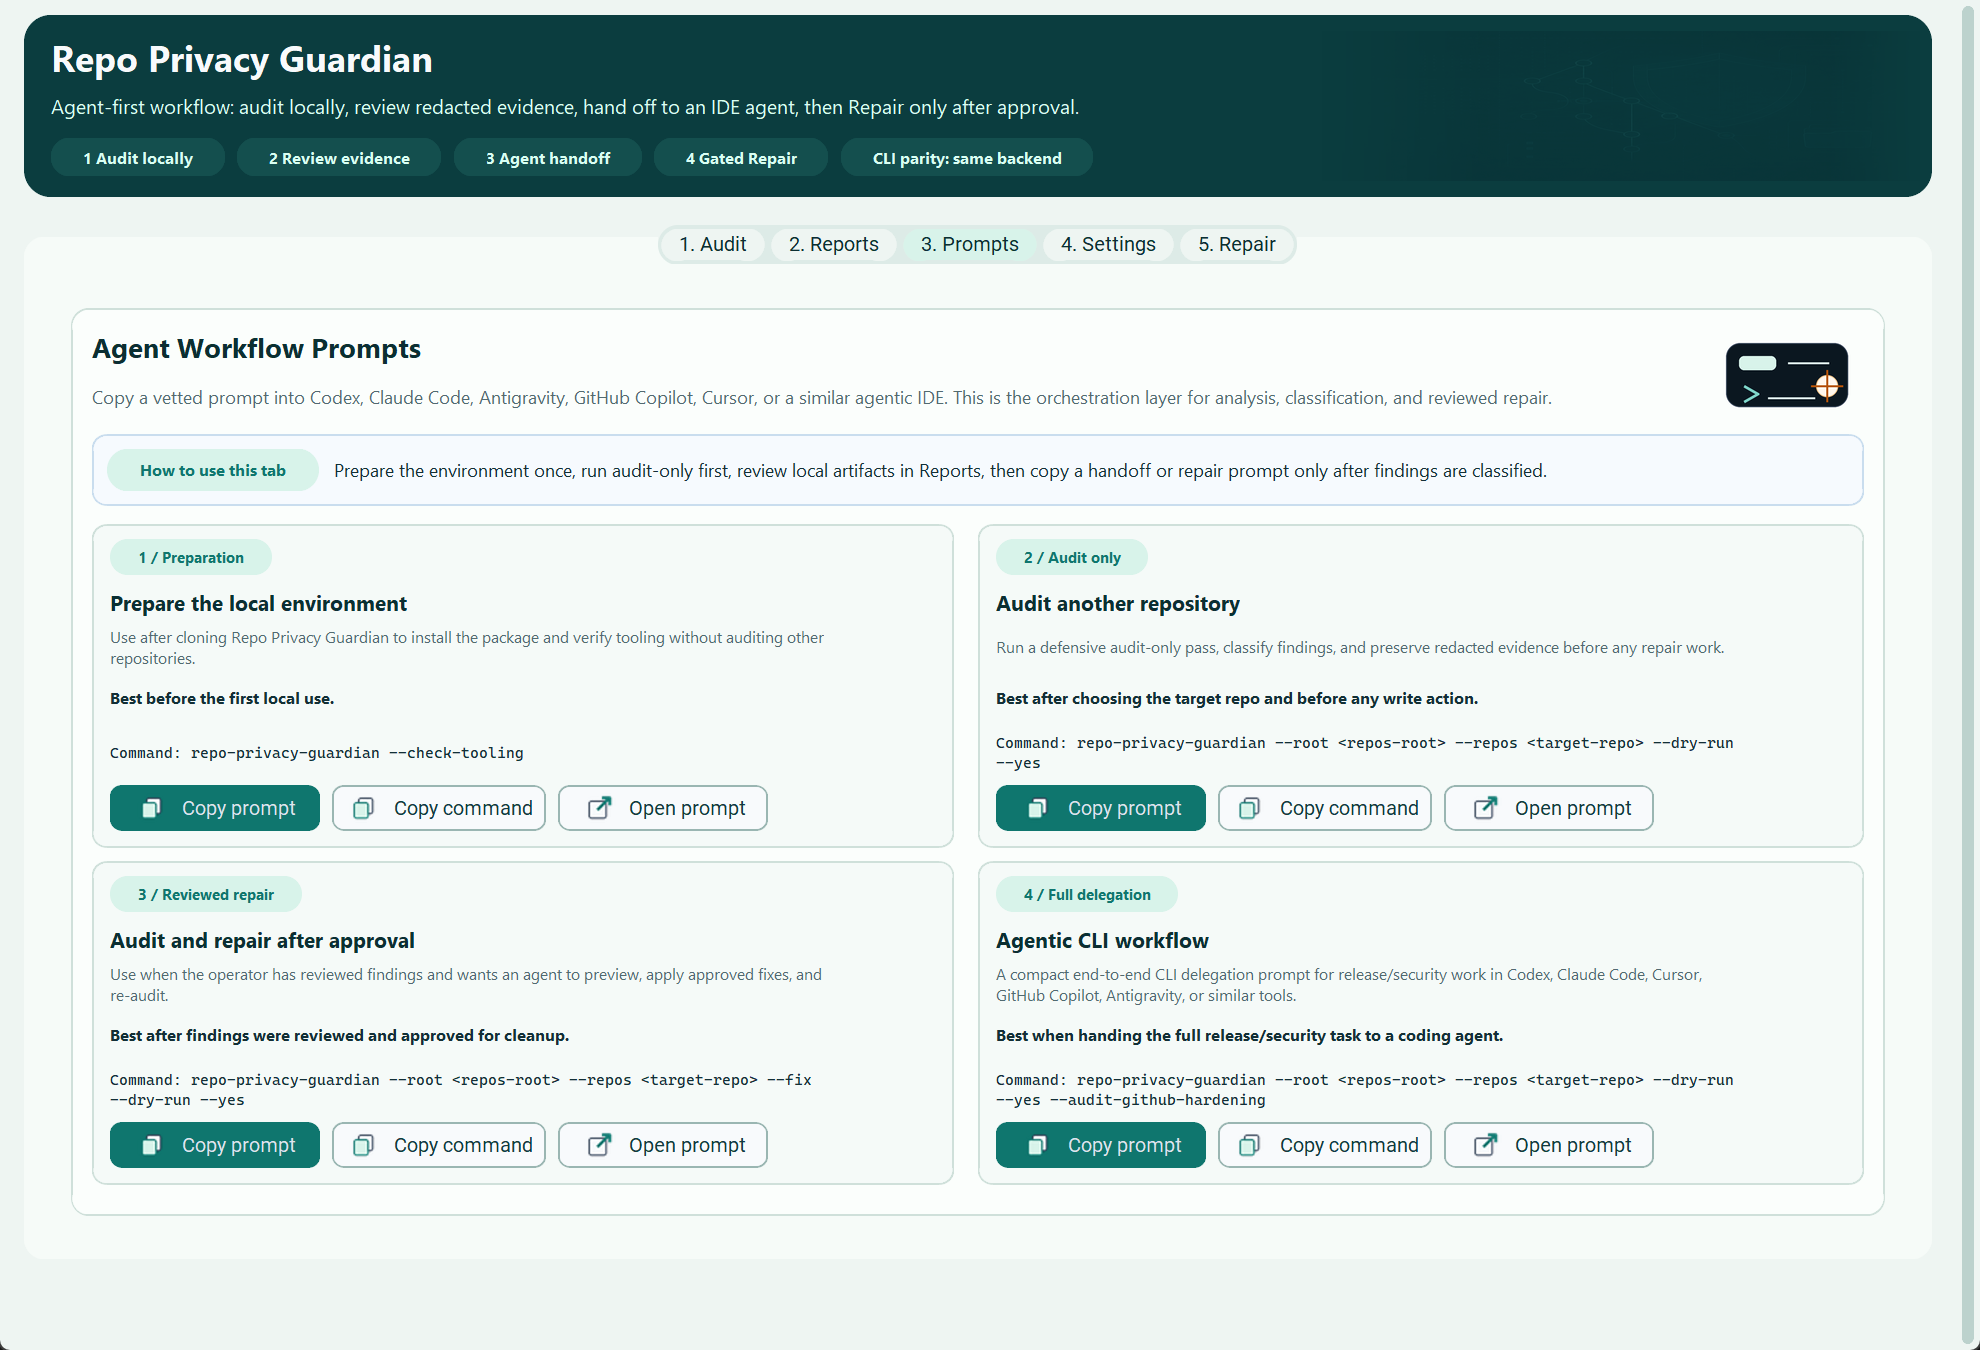
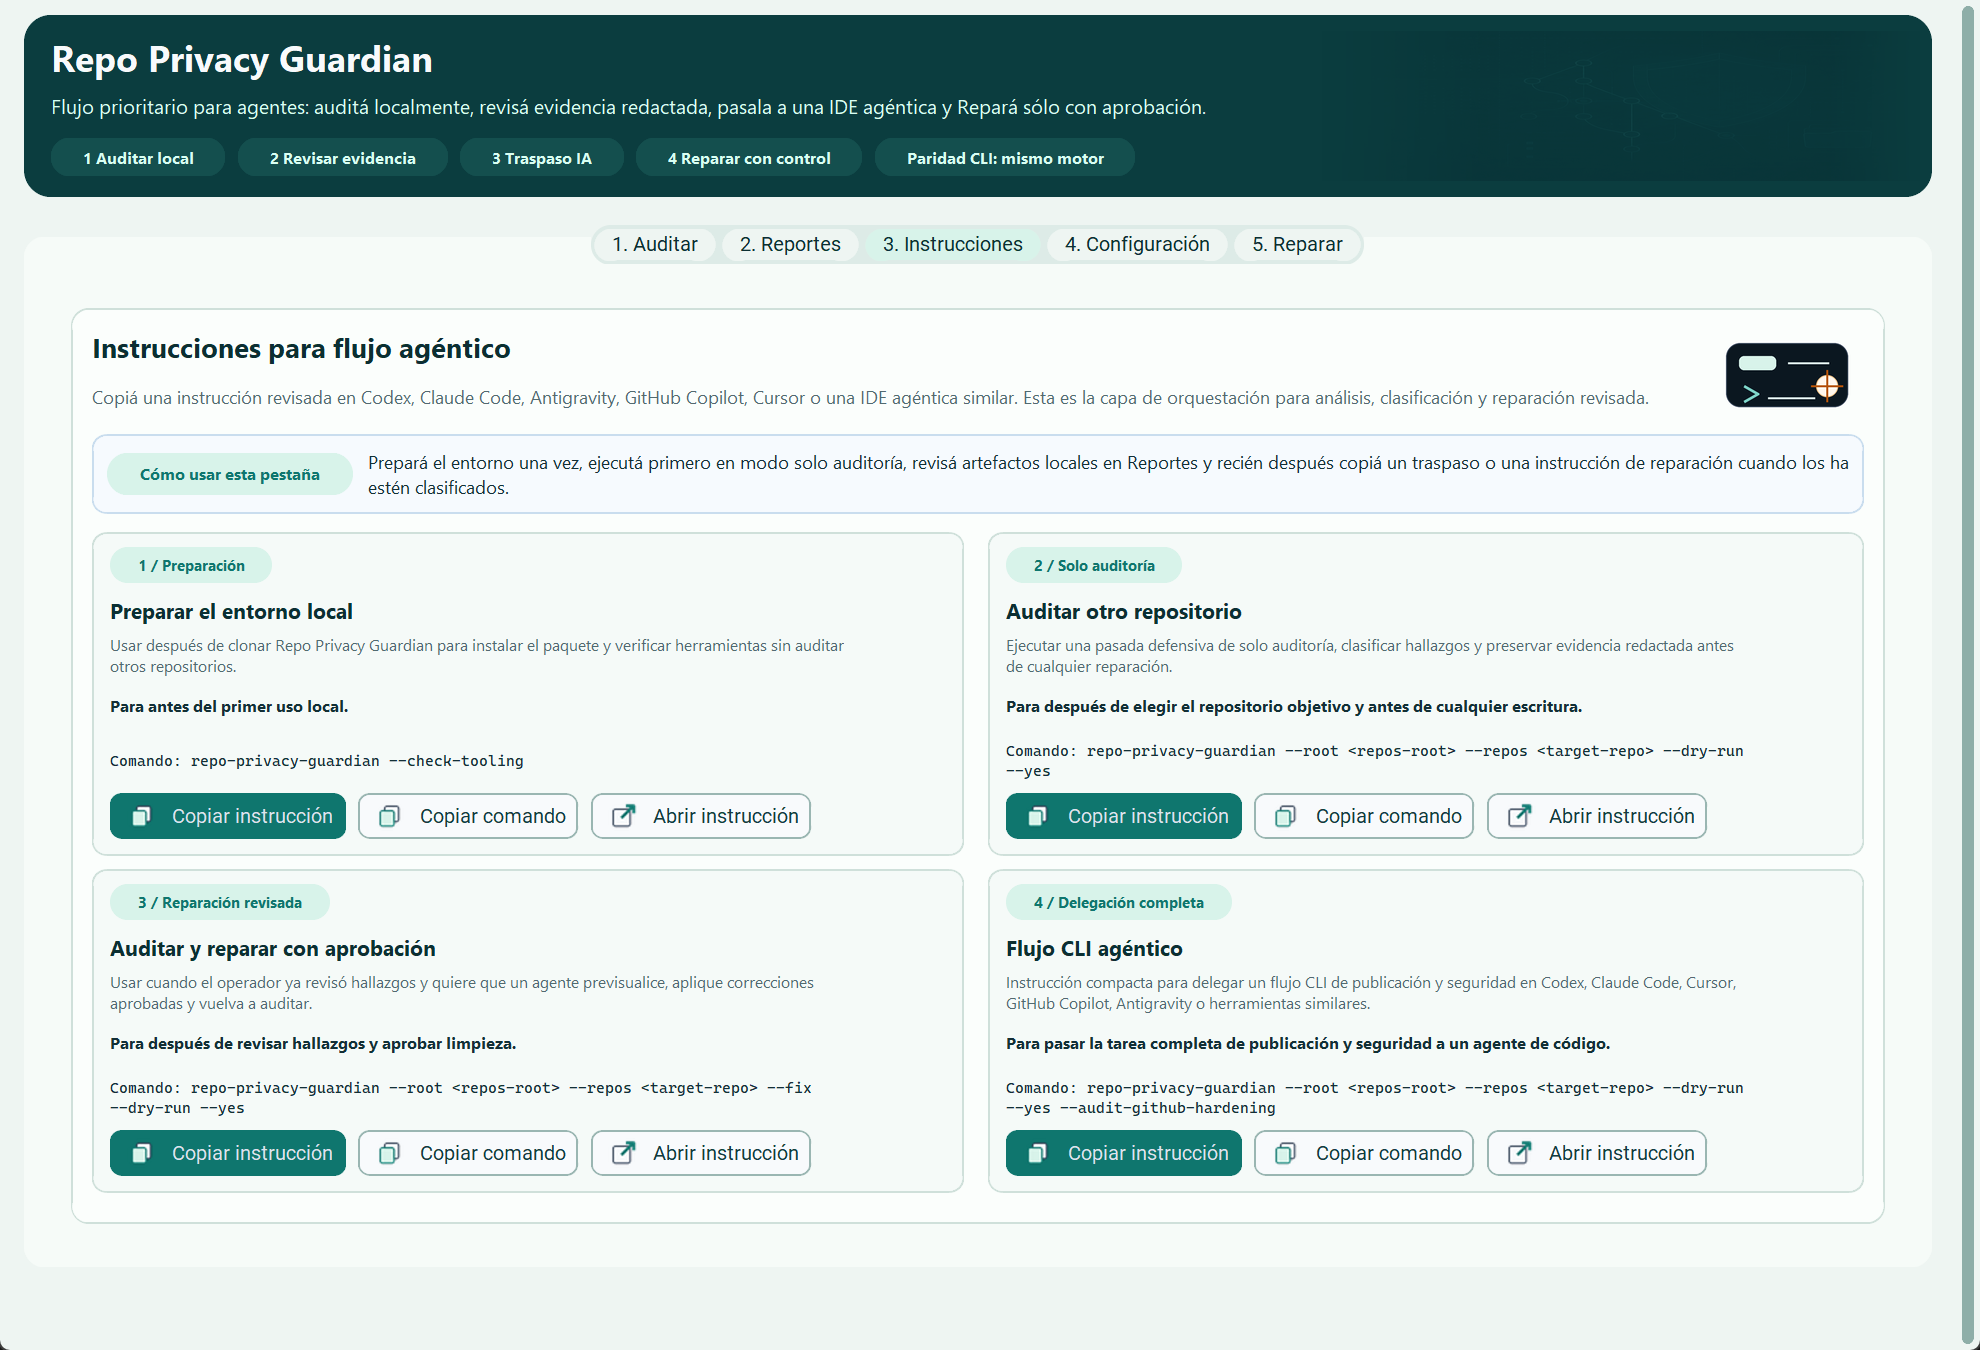
Polish GUI visual recovery states

diff --git a/Repo_Privacy_Guardian.py b/Repo_Privacy_Guardian.py
@@ -1934,8 +1934,8 @@ GUI_UI_TEXT_BY_LOCALE: dict[str, dict[str, str]] = {
         "open_agent_prompts_tab": "Agent prompts",
         "last_run": "Last run",
         "last_run_none": "No GUI run has finished in this session yet.",
-        "reports_dashboard": "Reports Dashboard",
-        "reports_dashboard_body": "Open local evidence from the latest run. Treat artifacts as sensitive even when values are redacted.",
+        "reports_dashboard": "Latest Run Review",
+        "reports_dashboard_body": "Review the latest local artifacts, decide the next safe action, then hand off only redacted context.",
         "latest_artifacts": "Latest artifacts",
         "latest_artifacts_none": "Run Audit to create report.json, report.html, run.log, and run_state.json.",
         "next_action": "Next action",
@@ -1945,9 +1945,9 @@ GUI_UI_TEXT_BY_LOCALE: dict[str, dict[str, str]] = {
         "next_action_manual": "Classify advisory findings with an agent before publication. Repair stays optional and reviewed.",
         "next_action_pass": "No blocking publication findings are present. Keep artifacts for review or copy the handoff for agent sign-off.",
         "next_action_error": "Open run.log and run_state.json, resolve the runtime issue, then run Audit again.",
-        "agent_step_evidence": "Open redacted evidence",
-        "agent_step_copy": "Copy agent handoff",
-        "agent_step_prompt": "Use a reviewed prompt",
+        "agent_step_evidence": "1. Review redacted evidence",
+        "agent_step_copy": "2. Copy agent handoff",
+        "agent_step_prompt": "3. Choose a reviewed prompt",
         "open_agent_prompts_from_reports": "Open agent prompts",
         "copy_agent_handoff": "Copy agent handoff",
         "agent_handoff_copied": "Agent handoff copied to clipboard.",
@@ -2124,6 +2124,7 @@ GUI_UI_TEXT_BY_LOCALE: dict[str, dict[str, str]] = {
         ),
         "repo_empty_invalid_root_title": "Root folder not found",
         "repo_empty_invalid_root_hint": "Pick a valid directory, then refresh the repository list.",
+        "repo_empty_choose_root_action": "Choose Root",
         "repo_empty_no_repos_title": "No repositories found",
         "repo_empty_no_repos_hint": "Clone a repository here or point Root at a folder that already contains git repositories.",
         "repo_empty_github_remote_title": "GitHub owner/org audit active",
@@ -2262,8 +2263,8 @@ GUI_UI_TEXT_BY_LOCALE: dict[str, dict[str, str]] = {
         "open_agent_prompts_tab": "Instrucciones IA",
         "last_run": "Última corrida",
         "last_run_none": "Todavía no terminó ninguna corrida GUI en esta sesión.",
-        "reports_dashboard": "Panel de reportes",
-        "reports_dashboard_body": "Abrí evidencia local de la última corrida. Tratá los artefactos como sensibles incluso cuando los valores estén redactados.",
+        "reports_dashboard": "Revisión de última corrida",
+        "reports_dashboard_body": "Revisá los artefactos locales recientes, decidí la próxima acción segura y pasá sólo contexto redactado.",
         "latest_artifacts": "Últimos artefactos",
         "latest_artifacts_none": "Ejecutá Auditar para crear report.json, report.html, run.log y run_state.json.",
         "next_action": "Próxima acción",
@@ -2273,9 +2274,9 @@ GUI_UI_TEXT_BY_LOCALE: dict[str, dict[str, str]] = {
         "next_action_manual": "Clasificá señales consultivas con un agente antes de publicar. Reparar queda opcional y revisado.",
         "next_action_pass": "No hay bloqueos de publicación en los resultados. Conservá artefactos o copiá el contexto para una revisión agéntica final.",
         "next_action_error": "Abrí run.log y run_state.json, resolvé el problema de ejecución y repetí Auditar.",
-        "agent_step_evidence": "Abrir evidencia redactada",
-        "agent_step_copy": "Copiar contexto agéntico",
-        "agent_step_prompt": "Usar una instrucción revisada",
+        "agent_step_evidence": "1. Revisar evidencia redactada",
+        "agent_step_copy": "2. Copiar contexto agéntico",
+        "agent_step_prompt": "3. Elegir instrucción revisada",
         "open_agent_prompts_from_reports": "Abrir instrucciones",
         "copy_agent_handoff": "Copiar contexto agéntico",
         "agent_handoff_copied": "Contexto agéntico copiado al portapapeles.",
@@ -2455,6 +2456,7 @@ GUI_UI_TEXT_BY_LOCALE: dict[str, dict[str, str]] = {
         ),
         "repo_empty_invalid_root_title": "Carpeta raíz no encontrada",
         "repo_empty_invalid_root_hint": "Elegí un directorio válido y después actualizá la lista de repositorios.",
+        "repo_empty_choose_root_action": "Elegir carpeta",
         "repo_empty_no_repos_title": "No se encontraron repositorios",
         "repo_empty_no_repos_hint": "Cloná un repositorio acá o apuntá la carpeta raíz a una carpeta que ya contenga repositorios git.",
         "repo_empty_github_remote_title": "Auditoría por propietario u organización de GitHub activa",
@@ -7377,6 +7379,7 @@ class GuiApp:  # pragma: no cover
         self._repo_empty_state_title_label = None
         self._repo_empty_state_body_label = None
         self._repo_empty_state_hint_label = None
+        self._repo_empty_state_action_button = None
         self._repo_empty_reason: str | None = None
         self._repo_items: list[tuple[str, str]] = []
         self._select_all_button = None
@@ -7545,6 +7548,7 @@ class GuiApp:  # pragma: no cover
             variable=self.root_var,
             title_key="choose_repositories_root",
             tooltip_key="repositories_root",
+            on_select=self._on_root_directory_selected,
         )
         audit_settings_row = ctk.CTkFrame(audit_target_card, fg_color="transparent")
         audit_settings_row.grid(row=3, column=0, columnspan=3, sticky="we", padx=14, pady=(6, 12))
@@ -7665,6 +7669,7 @@ class GuiApp:  # pragma: no cover
             variable=self.root_var,
             title_key="choose_repositories_root",
             tooltip_key="repositories_root",
+            on_select=self._on_root_directory_selected,
         )
 
         row += 1
@@ -8804,7 +8809,20 @@ class GuiApp:  # pragma: no cover
             text_color=self._text_muted,
             wraplength=420,
         )
-        self._repo_empty_state_hint_label.grid(row=3, column=0, padx=18, pady=(0, 16), sticky="ew")
+        self._repo_empty_state_hint_label.grid(row=3, column=0, padx=18, pady=(0, 8), sticky="ew")
+        self._repo_empty_state_action_button = ctk.CTkButton(
+            self._repo_empty_state,
+            text=self._t("repo_empty_choose_root_action"),
+            command=self._choose_root_from_empty_state,
+            width=150,
+            height=32,
+            corner_radius=8,
+            **self._button_asset_options("icon-folder.png"),
+            **self._secondary_button_options(),
+        )
+        self._localize_widget(self._repo_empty_state_action_button, "text", "repo_empty_choose_root_action")
+        self._bind_tooltip_key(self._repo_empty_state_action_button, "repositories_root")
+        self._repo_empty_state_action_button.grid(row=4, column=0, padx=18, pady=(0, 16))
 
         run_controls = ctk.CTkFrame(repos_card, fg_color="transparent")
         run_controls.grid(row=3, column=0, columnspan=2, sticky="w", padx=14, pady=(4, 12))
@@ -9266,10 +9284,11 @@ class GuiApp:  # pragma: no cover
                 self._reports_agent_steps_frame,
                 text=self._t(text_key),
                 height=28,
-                corner_radius=8,
-                fg_color=self._surface_alt,
+                fg_color="transparent",
                 text_color=self._text_body,
                 font=self._font(11, bold=True),
+                anchor="w",
+                justify="left",
                 padx=10,
             ), "text", text_key)
             step_label.grid(row=0, column=idx, sticky="we", padx=(0, 8 if idx < 2 else 0))
@@ -9283,7 +9302,7 @@ class GuiApp:  # pragma: no cover
             **self._secondary_button_options(),
         )
         self._localize_widget(self._reports_open_prompts_button, "text", "open_agent_prompts_from_reports")
-        self._reports_open_prompts_button.grid(row=2, column=0, columnspan=2, sticky="w", padx=12, pady=(0, 12))
+        self._reports_open_prompts_button.grid(row=2, column=0, columnspan=2, sticky="e", padx=12, pady=(0, 12))
 
         actions = ctk.CTkFrame(reports_card, fg_color="transparent")
         actions.grid(row=4, column=0, columnspan=2, sticky="w", padx=14, pady=(0, 12))
@@ -9990,14 +10009,28 @@ class GuiApp:  # pragma: no cover
 
         return str(candidate if candidate.parent.exists() else default_root_dir())
 
-    def _browse_directory(self, target_var, *, title: str) -> None:
+    def _browse_directory(self, target_var, *, title: str, mustexist: bool = False) -> bool:
         selected = self.filedialog.askdirectory(
             title=title,
             initialdir=self._dialog_initial_dir(target_var.get()),
-            mustexist=False,
+            mustexist=mustexist,
         )
         if selected:
             target_var.set(selected)
+            return True
+        return False
+
+    def _on_root_directory_selected(self) -> None:
+        self.refresh_repos()
+        self._save_gui_setup_settings(setup_completed=True)
+
+    def _choose_root_from_empty_state(self) -> None:
+        if self._browse_directory(
+            self.root_var,
+            title=self._t("choose_repositories_root"),
+            mustexist=True,
+        ):
+            self._on_root_directory_selected()
 
     def _browse_existing_file(self, target_var, *, title: str, filetypes) -> None:
         selected = self.filedialog.askopenfilename(
@@ -10036,6 +10069,7 @@ class GuiApp:  # pragma: no cover
         title: str | None = None,
         title_key: str | None = None,
         tooltip_key: str | None = None,
+        on_select: Callable[[], None] | None = None,
     ) -> None:
         self._make_field_label(parent, text=label, text_key=label_key, tooltip_key=tooltip_key).grid(
             row=row,
@@ -10062,12 +10096,26 @@ class GuiApp:  # pragma: no cover
             corner_radius=8,
             **self._button_asset_options("icon-folder.png"),
             **self._secondary_button_options(),
-            command=lambda: self._browse_directory(variable, title=self._t(title_key) if title_key else (title or "")),
+            command=lambda: self._handle_directory_browse(
+                variable,
+                title=self._t(title_key) if title_key else (title or ""),
+                on_select=on_select,
+            ),
         )
         self._localize_widget(button, "text", "browse")
         if tooltip_key:
             self._bind_tooltip_key(button, tooltip_key)
         button.grid(row=row, column=2, padx=(0, 14), pady=4)
+
+    def _handle_directory_browse(
+        self,
+        target_var,
+        *,
+        title: str,
+        on_select: Callable[[], None] | None = None,
+    ) -> None:
+        if self._browse_directory(target_var, title=title) and on_select is not None:
+            on_select()
 
     def _add_file_field(
         self,
@@ -10600,6 +10648,7 @@ class GuiApp:  # pragma: no cover
         title_label = getattr(self, "_repo_empty_state_title_label", None)
         body_label = getattr(self, "_repo_empty_state_body_label", None)
         hint_label = getattr(self, "_repo_empty_state_hint_label", None)
+        action_button = getattr(self, "_repo_empty_state_action_button", None)
 
         palette = {
             "invalid_root": {
@@ -10638,6 +10687,12 @@ class GuiApp:  # pragma: no cover
             body_label.configure(text=message, text_color=theme["body_color"])
         if hint_label is not None:
             hint_label.configure(text=theme["hint"], text_color=self._text_muted)
+        if action_button is not None:
+            if self._repo_empty_reason in {"invalid_root", "no_repos"}:
+                action_button.configure(text=self._t("repo_empty_choose_root_action"), state="normal")
+                action_button.grid()
+            else:
+                action_button.grid_remove()
         try:
             self.repo_list.configure(state="disabled")
         except Exception:

diff --git a/tests/test_release_contract.py b/tests/test_release_contract.py
@@ -2138,6 +2138,13 @@ def test_refresh_repos_invalid_root_surfaces_empty_state_and_disables_audit(tmp_
         def place_forget(self) -> None:
             self.kwargs["hidden"] = "1"
 
+        def grid(self, **kwargs) -> None:
+            self.kwargs.update(kwargs)
+            self.kwargs["grid"] = "1"
+
+        def grid_remove(self) -> None:
+            self.kwargs["grid_removed"] = "1"
+
         def lift(self) -> None:
             self.kwargs["lifted"] = "1"
 
@@ -2152,6 +2159,7 @@ def test_refresh_repos_invalid_root_surfaces_empty_state_and_disables_audit(tmp_
     app._repo_empty_state_title_label = DummyWidget()
     app._repo_empty_state_body_label = DummyWidget()
     app._repo_empty_state_hint_label = DummyWidget()
+    app._repo_empty_state_action_button = DummyWidget()
     app._audit_button = DummyWidget()
     app._select_all_button = DummyWidget()
     app._clear_selection_button = DummyWidget()
@@ -2164,6 +2172,9 @@ def test_refresh_repos_invalid_root_surfaces_empty_state_and_disables_audit(tmp_
     assert "Root folder not found" in app._repo_summary_label.text
     assert app._repo_empty_state_title_label.text == "Root folder not found"
     assert app._repo_empty_state_body_label.text == rpg.GUI_UI_TEXT_BY_LOCALE[rpg.GUI_LOCALE_DEFAULT]["choose_valid_root"]
+    assert app._repo_empty_state_action_button.text == "Choose Root"
+    assert app._repo_empty_state_action_button.kwargs["state"] == "normal"
+    assert app._repo_empty_state_action_button.kwargs["grid"] == "1"
     assert app._audit_button.kwargs["text"] == "Audit unavailable"
     assert app._audit_button.kwargs["state"] == "disabled"
     assert app._select_all_button.kwargs["state"] == "disabled"

diff --git a/docs/UX_UI_AUDIT.md b/docs/UX_UI_AUDIT.md
@@ -342,3 +342,24 @@ Validation notes:
 - Reports still render paths and counts only. Raw findings remain in local artifacts, not in GUI handoff copy.
 - Screenshots were captured before and after for Reports and Prompts in the running desktop app.
 - Functional validation covered `ruff`, `pyright`, full `pytest`, GUI/CLI smoke tests, and the release-contract check.
+
+## 2026-05-04 Continuous Visual QA Pass
+
+This pass continued from the merged `main` GUI and inspected fresh desktop screenshots of Audit, Reports, Prompts, and Repair states.
+
+Findings:
+
+- The invalid Root empty state showed the right diagnosis, but the correction action was separated from the error card. Users had to look back up to the Root field or Refresh button instead of acting where the state explained the problem.
+- The Reports handoff checklist used filled label blocks that could be mistaken for disabled buttons.
+- The Reports title still sounded like a generic dashboard instead of a latest-run review surface.
+
+Corrections applied:
+
+- Added a direct `Choose Root` / `Elegir carpeta` action inside the repository empty state for invalid or empty local roots.
+- Made Root-folder browse actions refresh the repository list immediately after selection, keeping the Audit screen state in sync without requiring a separate Refresh click.
+- Changed the Reports heading to latest-run review copy and made the checklist read as numbered guidance rather than controls.
+- Re-captured Audit and Reports screenshots after the visual changes; tracked Reports/Prompts screenshots remain sanitized under `docs/ux-audit/after/`.
+
+Validation notes:
+
+- These changes are GUI presentation/state-flow only. CLI flags, report fields, policy keys, remediation defaults, and `GuardRunConfig` mappings are unchanged.

diff --git a/DESIGN.md b/DESIGN.md
@@ -124,6 +124,8 @@ Reports should answer "what should the operator or agent do next?" before listin
 
 Prompt-library cards should be staged and task-specific. Each card needs a clear phase and recommended use case so users can choose environment setup, audit-only review, approved repair, or full CLI delegation without reading every prompt file first.
 
+Instructional checklist rows should not look like inactive buttons. Use button styling only for controls that perform an action, and place the recovery action inside empty states when the next step is unambiguous.
+
 ## Desktop Visual QA Method
 
 Repo Privacy Guardian can borrow useful product-design discipline from web-app frontend workflows, but the implementation target remains a `customtkinter` desktop companion. Do not migrate the GUI to React, Vite, browser routing, or web-only QA just to satisfy visual design guidance.

diff --git a/CHANGELOG.md b/CHANGELOG.md
@@ -9,6 +9,7 @@ All notable user-facing changes to this project are documented here.
 - Kept the GUI Reports empty state focused on the safe `Go to Audit` action instead of showing disabled artifact buttons before a run exists.
 - Added a Reports next-action panel, safe agent handoff summary counts, and staged Prompt-card guidance so the desktop companion better matches the agent-first CLI workflow.
 - Polished Spanish prompt-library copy in the GUI to avoid avoidable English UX fragments while preserving CLI flags and file names.
+- Refined the desktop GUI visual flow after screenshot QA: Reports now reads as latest-run review, checklist guidance no longer looks like disabled controls, and invalid Root empty states include a direct folder-selection action.
 
 ### Fixed
 